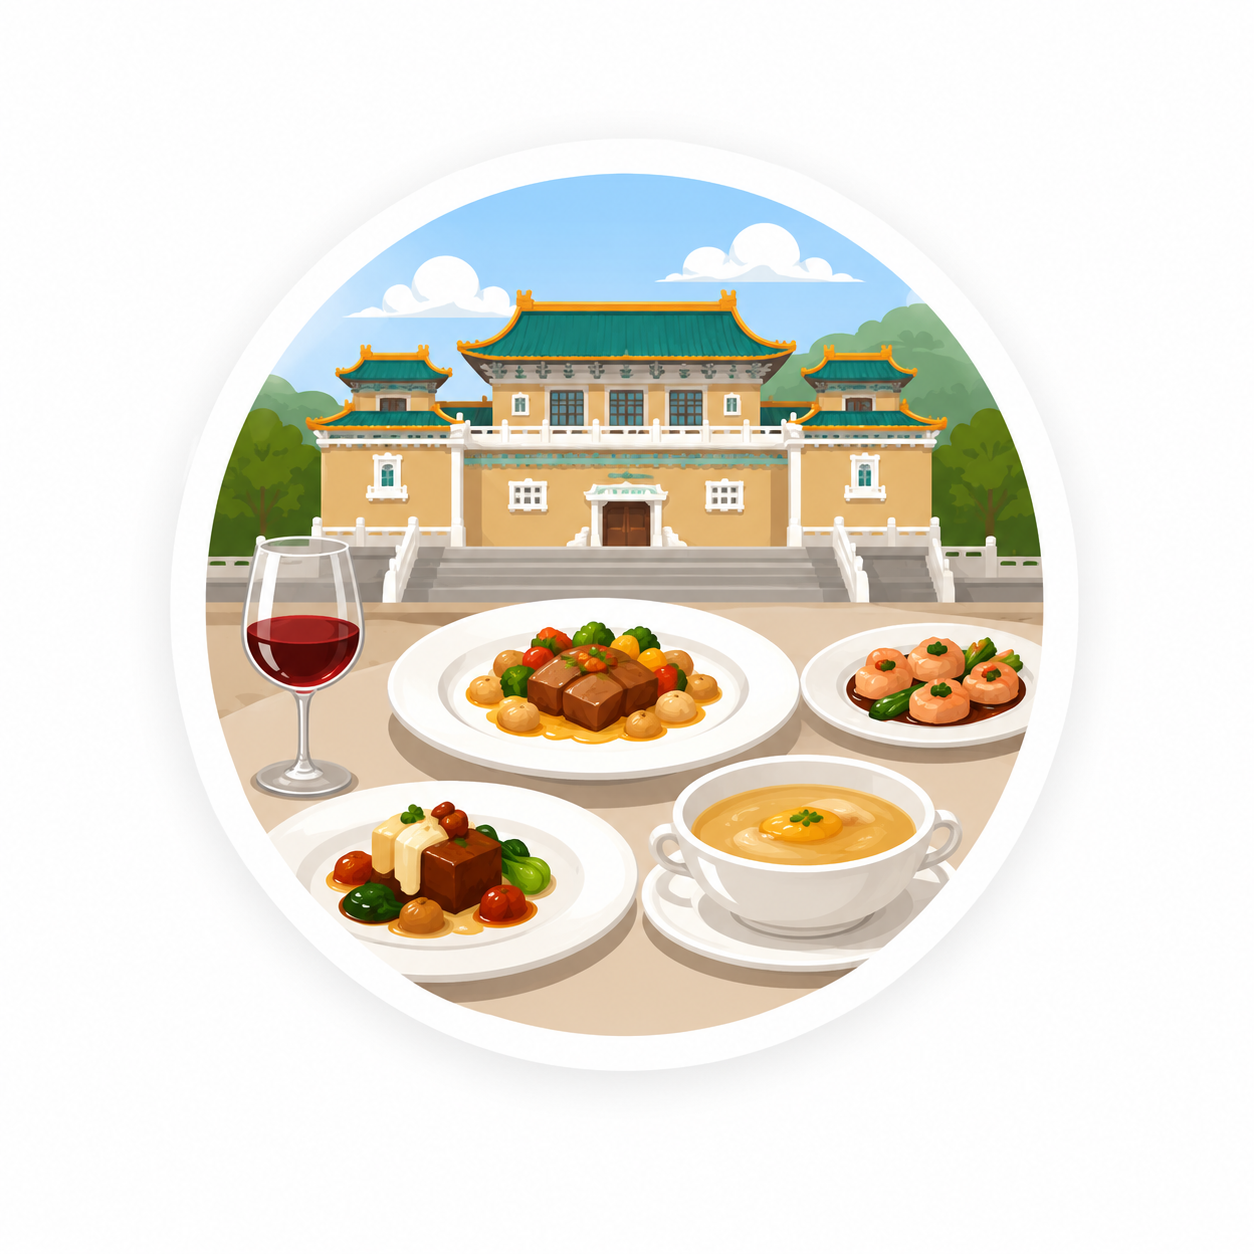
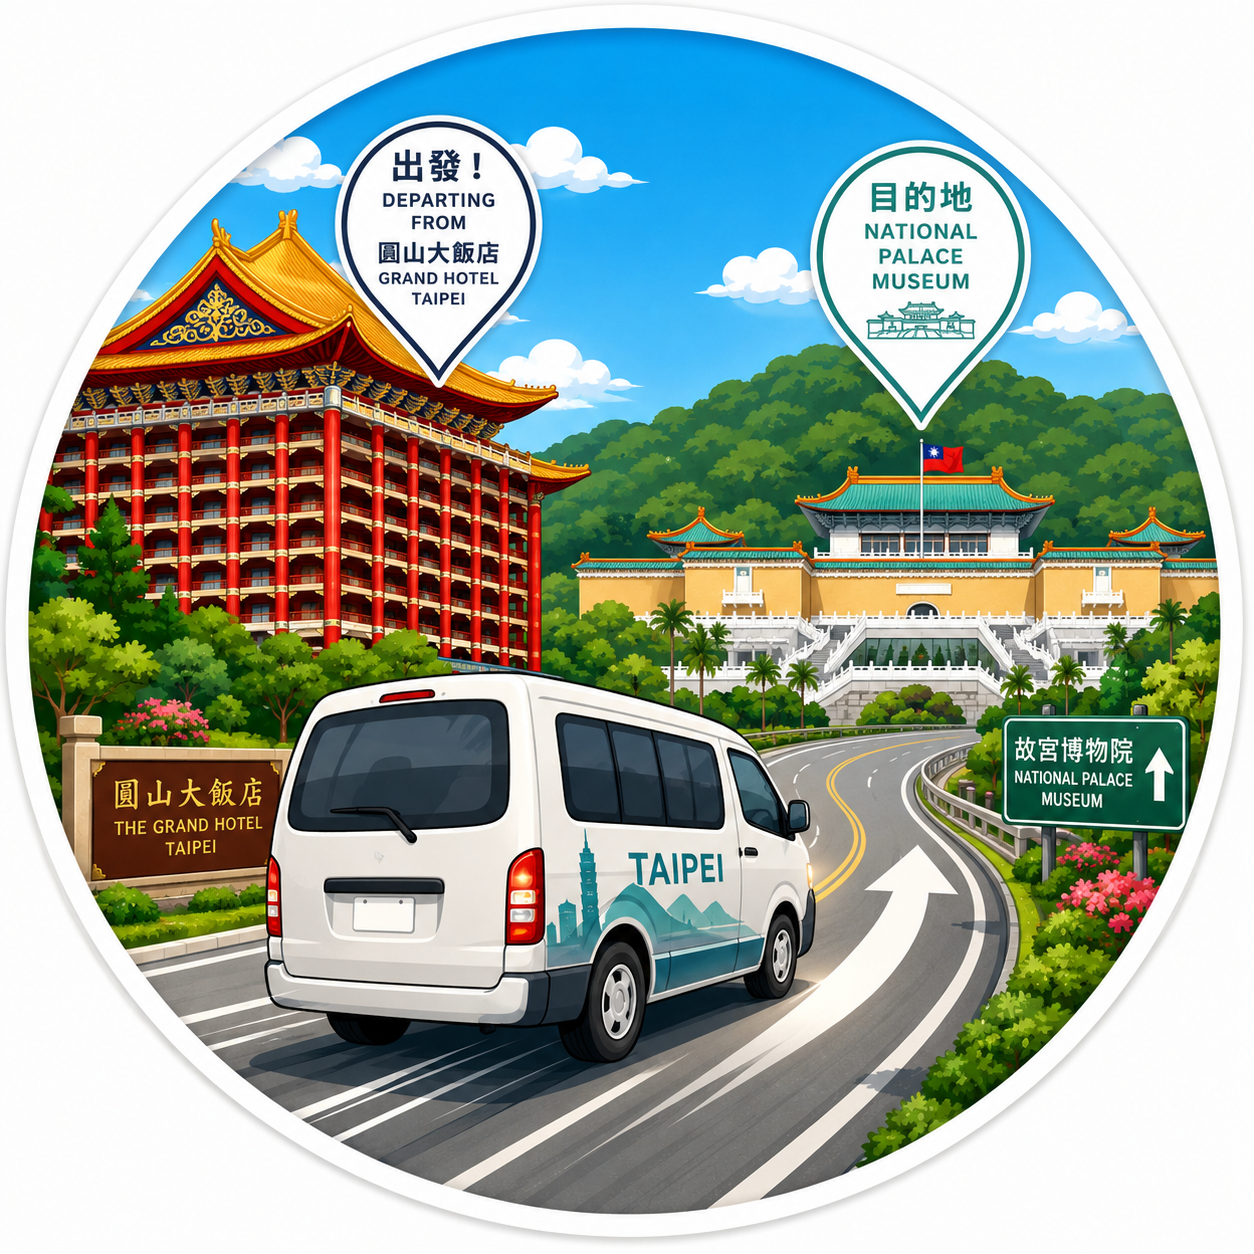
Deploying to gh-pages from @ bybarian/Eric2026@45bd08a0bebf68f6800f730e17983ab5d81a33ac 🚀

diff --git a/index.html b/index.html
@@ -4,8 +4,8 @@
     <meta charset="UTF-8" />
     <meta name="viewport" content="width=device-width, initial-scale=1.0" />
     <title>CBME Taiwan Week 2026 - Itinerary & Concierge</title>
-    <script type="module" crossorigin src="./assets/index-BPzL2MT6.js"></script>
-    <link rel="stylesheet" crossorigin href="./assets/index-DZV6m0gV.css">
+    <script type="module" crossorigin src="./assets/index-FYTg7MUF.js"></script>
+    <link rel="stylesheet" crossorigin href="./assets/index-q7Ysrpos.css">
   </head>
   <body>
     <div id="root"></div>

diff --git a/assets/index-q7Ysrpos.css b/assets/index-q7Ysrpos.css
@@ -1,0 +1,1 @@
+@import"https://fonts.googleapis.com/css2?family=Inter:wght@300;400;500;600;700&family=Outfit:wght@400;500;600;700;800&family=JetBrains+Mono:wght@400;500;600&display=swap";/*! tailwindcss v4.3.3 | MIT License | https://tailwindcss.com */@layer properties{@supports (((-webkit-hyphens:none)) and (not (margin-trim:inline))) or ((-moz-orient:inline) and (not (color:rgb(from red r g b)))){*,:before,:after,::backdrop{--tw-rotate-x:initial;--tw-rotate-y:initial;--tw-rotate-z:initial;--tw-skew-x:initial;--tw-skew-y:initial;--tw-space-y-reverse:0;--tw-space-x-reverse:0;--tw-border-style:solid;--tw-gradient-position:initial;--tw-gradient-from:#0000;--tw-gradient-via:#0000;--tw-gradient-to:#0000;--tw-gradient-stops:initial;--tw-gradient-via-stops:initial;--tw-gradient-from-position:0%;--tw-gradient-via-position:50%;--tw-gradient-to-position:100%;--tw-leading:initial;--tw-font-weight:initial;--tw-tracking:initial;--tw-shadow:0 0 #0000;--tw-shadow-color:initial;--tw-shadow-alpha:100%;--tw-inset-shadow:0 0 #0000;--tw-inset-shadow-color:initial;--tw-inset-shadow-alpha:100%;--tw-ring-color:initial;--tw-ring-shadow:0 0 #0000;--tw-inset-ring-color:initial;--tw-inset-ring-shadow:0 0 #0000;--tw-ring-inset:initial;--tw-ring-offset-width:0px;--tw-ring-offset-color:#fff;--tw-ring-offset-shadow:0 0 #0000;--tw-duration:initial}}}@layer theme{:root,:host{--font-sans:"Inter", ui-sans-serif, system-ui, sans-serif;--font-mono:"JetBrains Mono", ui-monospace, SFMono-Regular, monospace;--color-orange-700:oklch(55.3% .195 38.402);--color-amber-50:oklch(98.7% .022 95.277);--color-amber-100:oklch(96.2% .059 95.617);--color-amber-200:oklch(92.4% .12 95.746);--color-amber-400:oklch(82.8% .189 84.429);--color-amber-500:oklch(76.9% .188 70.08);--color-amber-600:oklch(66.6% .179 58.318);--color-amber-700:oklch(55.5% .163 48.998);--color-amber-800:oklch(47.3% .137 46.201);--color-amber-900:oklch(41.4% .112 45.904);--color-emerald-50:oklch(97.9% .021 166.113);--color-emerald-100:oklch(95% .052 163.051);--color-emerald-300:oklch(84.5% .143 164.978);--color-emerald-400:oklch(76.5% .177 163.223);--color-emerald-500:oklch(69.6% .17 162.48);--color-emerald-600:oklch(59.6% .145 163.225);--color-emerald-700:oklch(50.8% .118 165.612);--color-emerald-800:oklch(43.2% .095 166.913);--color-emerald-900:oklch(37.8% .077 168.94);--color-emerald-950:oklch(26.2% .051 172.552);--color-teal-700:oklch(51.1% .096 186.391);--color-sky-50:oklch(97.7% .013 236.62);--color-sky-600:oklch(58.8% .158 241.966);--color-sky-800:oklch(44.3% .11 240.79);--color-blue-700:oklch(48.8% .243 264.376);--color-slate-50:oklch(98.4% .003 247.858);--color-slate-100:oklch(96.8% .007 247.896);--color-slate-200:oklch(92.9% .013 255.508);--color-slate-300:oklch(86.9% .022 252.894);--color-slate-400:oklch(70.4% .04 256.788);--color-slate-500:oklch(55.4% .046 257.417);--color-slate-600:oklch(44.6% .043 257.281);--color-slate-700:oklch(37.2% .044 257.287);--color-slate-800:oklch(27.9% .041 260.031);--color-slate-900:oklch(20.8% .042 265.755);--color-black:#000;--color-white:#fff;--spacing:.25rem;--container-xl:36rem;--container-4xl:56rem;--container-7xl:80rem;--text-xs:.75rem;--text-xs--line-height:calc(1 / .75);--text-sm:.875rem;--text-sm--line-height:calc(1.25 / .875);--text-base:1rem;--text-base--line-height: 1.5 ;--text-lg:1.125rem;--text-lg--line-height:calc(1.75 / 1.125);--text-xl:1.25rem;--text-xl--line-height:calc(1.75 / 1.25);--text-2xl:1.5rem;--text-2xl--line-height:calc(2 / 1.5);--font-weight-medium:500;--font-weight-semibold:600;--font-weight-bold:700;--tracking-tight:-.025em;--tracking-wider:.05em;--tracking-widest:.1em;--leading-tight:1.25;--leading-normal:1.5;--leading-relaxed:1.625;--radius-md:.375rem;--radius-lg:.5rem;--radius-xl:.75rem;--radius-2xl:1rem;--radius-3xl:1.5rem;--animate-pulse:pulse 2s cubic-bezier(.4, 0, .6, 1) infinite;--default-transition-duration:.15s;--default-transition-timing-function:cubic-bezier(.4, 0, .2, 1);--default-font-family:var(--font-sans);--default-mono-font-family:var(--font-mono);--font-display:"Outfit", sans-serif}}@layer base{*,:after,:before,::backdrop{box-sizing:border-box;border:0 solid;margin:0;padding:0}::file-selector-button{box-sizing:border-box;border:0 solid;margin:0;padding:0}html,:host{-webkit-text-size-adjust:100%;-moz-tab-size:4;tab-size:4;line-height:1.5;font-family:var(--default-font-family,-apple-system, BlinkMacSystemFont, "Segoe UI", Roboto, "Helvetica Neue", "Noto Sans", Arial, sans-serif, "Apple Color Emoji", "Segoe UI Emoji", "Segoe UI Symbol", "Noto Color Emoji");font-feature-settings:var(--default-font-feature-settings,normal);font-variation-settings:var(--default-font-variation-settings,normal);-webkit-tap-highlight-color:transparent}hr{height:0;color:inherit;border-top-width:1px}abbr:where([title]){-webkit-text-decoration:underline dotted;text-decoration:underline dotted}h1,h2,h3,h4,h5,h6{font-size:inherit;font-weight:inherit}a{color:inherit;-webkit-text-decoration:inherit;text-decoration:inherit}b,strong{font-weight:bolder}code,kbd,samp,pre{font-family:var(--default-mono-font-family,ui-monospace, SFMono-Regular, Menlo, Monaco, Consolas, "Liberation Mono", "Courier New", monospace);font-feature-settings:var(--default-mono-font-feature-settings,normal);font-variation-settings:var(--default-mono-font-variation-settings,normal);font-size:1em}small{font-size:80%}sub,sup{vertical-align:baseline;font-size:75%;line-height:0;position:relative}sub{bottom:-.25em}sup{top:-.5em}table{text-indent:0;border-color:inherit;border-collapse:collapse}:-moz-focusring:where(:not(iframe)){outline:auto}progress{vertical-align:baseline}summary{display:list-item}ol,ul,menu{list-style:none}img,svg,video,canvas,audio,iframe,embed,object{vertical-align:middle;display:block}img,video{max-width:100%;height:auto}button,input,select,optgroup,textarea{font:inherit;font-feature-settings:inherit;font-variation-settings:inherit;letter-spacing:inherit;color:inherit;opacity:1;background-color:#0000;border-radius:0}::file-selector-button{font:inherit;font-feature-settings:inherit;font-variation-settings:inherit;letter-spacing:inherit;color:inherit;opacity:1;background-color:#0000;border-radius:0}:where(select:is([multiple],[size])) optgroup{font-weight:bolder}:where(select:is([multiple],[size])) optgroup option{padding-inline-start:20px}::file-selector-button{margin-inline-end:4px}::placeholder{opacity:1}@supports (not ((-webkit-appearance:-apple-pay-button))) or (contain-intrinsic-size:1px){::placeholder{color:currentColor}@supports (color:color-mix(in lab,red,red)){::placeholder{color:color-mix(in oklab,currentcolor 50%,transparent)}}}textarea{resize:vertical}::-webkit-search-decoration{-webkit-appearance:none}::-webkit-date-and-time-value{min-height:1lh;text-align:inherit}::-webkit-datetime-edit{display:inline-flex}::-webkit-datetime-edit-fields-wrapper{padding:0}::-webkit-datetime-edit{padding-block:0}::-webkit-datetime-edit-year-field{padding-block:0}::-webkit-datetime-edit-month-field{padding-block:0}::-webkit-datetime-edit-day-field{padding-block:0}::-webkit-datetime-edit-hour-field{padding-block:0}::-webkit-datetime-edit-minute-field{padding-block:0}::-webkit-datetime-edit-second-field{padding-block:0}::-webkit-datetime-edit-millisecond-field{padding-block:0}::-webkit-datetime-edit-meridiem-field{padding-block:0}::-webkit-calendar-picker-indicator{line-height:1}:-moz-ui-invalid{box-shadow:none}button,input:where([type=button],[type=reset],[type=submit]){-webkit-appearance:button;-moz-appearance:button;appearance:button}::file-selector-button{-webkit-appearance:button;-moz-appearance:button;appearance:button}::-webkit-inner-spin-button{height:auto}::-webkit-outer-spin-button{height:auto}[hidden]:where(:not([hidden=until-found])){display:none!important}body{background-color:#f8fafc80}@supports (color:color-mix(in lab,red,red)){body{background-color:color-mix(in oklab,var(--color-slate-50) 50%,transparent)}}body{font-family:var(--font-sans);color:var(--color-slate-800);-webkit-font-smoothing:antialiased;-moz-osx-font-smoothing:grayscale}}@layer components;@layer utilities{.absolute{position:absolute}.relative{position:relative}.sticky{position:sticky}.inset-0{top:0;right:0;bottom:0;left:0}.top-0{top:0}.top-4{top:calc(var(--spacing) * 4)}.bottom-4{bottom:calc(var(--spacing) * 4)}.left-\[61px\]{left:61px}.z-10{z-index:10}.z-50{z-index:50}.mx-auto{margin-inline:auto}.-my-2{margin-block:calc(var(--spacing) * -2)}.mt-0\.5{margin-top:calc(var(--spacing) * .5)}.mt-1{margin-top:var(--spacing)}.mt-2{margin-top:calc(var(--spacing) * 2)}.mt-2\.5{margin-top:calc(var(--spacing) * 2.5)}.mt-3{margin-top:calc(var(--spacing) * 3)}.mt-4{margin-top:calc(var(--spacing) * 4)}.mt-12{margin-top:calc(var(--spacing) * 12)}.mt-auto{margin-top:auto}.line-clamp-2{-webkit-line-clamp:2;-webkit-box-orient:vertical;display:-webkit-box;overflow:hidden}.block{display:block}.contents{display:contents}.flex{display:flex}.grid{display:grid}.hidden{display:none}.table{display:table}.h-1\.5{height:calc(var(--spacing) * 1.5)}.h-2{height:calc(var(--spacing) * 2)}.h-2\.5{height:calc(var(--spacing) * 2.5)}.h-3{height:calc(var(--spacing) * 3)}.h-3\.5{height:calc(var(--spacing) * 3.5)}.h-4{height:calc(var(--spacing) * 4)}.h-5{height:calc(var(--spacing) * 5)}.h-8{height:calc(var(--spacing) * 8)}.h-12{height:calc(var(--spacing) * 12)}.h-16{height:calc(var(--spacing) * 16)}.h-20{height:calc(var(--spacing) * 20)}.h-full{height:100%}.min-h-16{min-height:calc(var(--spacing) * 16)}.min-h-screen{min-height:100vh}.w-1\.5{width:calc(var(--spacing) * 1.5)}.w-2{width:calc(var(--spacing) * 2)}.w-2\.5{width:calc(var(--spacing) * 2.5)}.w-3{width:calc(var(--spacing) * 3)}.w-3\.5{width:calc(var(--spacing) * 3.5)}.w-4{width:calc(var(--spacing) * 4)}.w-5{width:calc(var(--spacing) * 5)}.w-8{width:calc(var(--spacing) * 8)}.w-11{width:calc(var(--spacing) * 11)}.w-12{width:calc(var(--spacing) * 12)}.w-16{width:calc(var(--spacing) * 16)}.w-20{width:calc(var(--spacing) * 20)}.w-full{width:100%}.w-px{width:1px}.max-w-4xl{max-width:var(--container-4xl)}.max-w-7xl{max-width:var(--container-7xl)}.max-w-\[170px\]{max-width:170px}.max-w-xl{max-width:var(--container-xl)}.min-w-0{min-width:0}.flex-1{flex:1}.shrink-0{flex-shrink:0}.transform{transform:var(--tw-rotate-x,) var(--tw-rotate-y,) var(--tw-rotate-z,) var(--tw-skew-x,) var(--tw-skew-y,)}.animate-pulse{animation:var(--animate-pulse)}.cursor-pointer{cursor:pointer}.grid-cols-1{grid-template-columns:repeat(1,minmax(0,1fr))}.grid-cols-2{grid-template-columns:repeat(2,minmax(0,1fr))}.grid-cols-3{grid-template-columns:repeat(3,minmax(0,1fr))}.flex-col{flex-direction:column}.items-baseline{align-items:baseline}.items-center{align-items:center}.items-start{align-items:flex-start}.justify-between{justify-content:space-between}.justify-center{justify-content:center}.gap-1{gap:var(--spacing)}.gap-1\.5{gap:calc(var(--spacing) * 1.5)}.gap-2{gap:calc(var(--spacing) * 2)}.gap-2\.5{gap:calc(var(--spacing) * 2.5)}.gap-3{gap:calc(var(--spacing) * 3)}.gap-4{gap:calc(var(--spacing) * 4)}:where(.space-y-1>:not(:last-child)){--tw-space-y-reverse:0;margin-block-start:calc(var(--spacing) * var(--tw-space-y-reverse));margin-block-end:calc(var(--spacing) * calc(1 - var(--tw-space-y-reverse)))}:where(.space-y-2>:not(:last-child)){--tw-space-y-reverse:0;margin-block-start:calc(calc(var(--spacing) * 2) * var(--tw-space-y-reverse));margin-block-end:calc(calc(var(--spacing) * 2) * calc(1 - var(--tw-space-y-reverse)))}:where(.space-y-3>:not(:last-child)){--tw-space-y-reverse:0;margin-block-start:calc(calc(var(--spacing) * 3) * var(--tw-space-y-reverse));margin-block-end:calc(calc(var(--spacing) * 3) * calc(1 - var(--tw-space-y-reverse)))}:where(.space-y-4>:not(:last-child)){--tw-space-y-reverse:0;margin-block-start:calc(calc(var(--spacing) * 4) * var(--tw-space-y-reverse));margin-block-end:calc(calc(var(--spacing) * 4) * calc(1 - var(--tw-space-y-reverse)))}:where(.space-y-6>:not(:last-child)){--tw-space-y-reverse:0;margin-block-start:calc(calc(var(--spacing) * 6) * var(--tw-space-y-reverse));margin-block-end:calc(calc(var(--spacing) * 6) * calc(1 - var(--tw-space-y-reverse)))}:where(.space-y-8>:not(:last-child)){--tw-space-y-reverse:0;margin-block-start:calc(calc(var(--spacing) * 8) * var(--tw-space-y-reverse));margin-block-end:calc(calc(var(--spacing) * 8) * calc(1 - var(--tw-space-y-reverse)))}:where(.space-x-1\.5>:not(:last-child)){--tw-space-x-reverse:0;margin-inline-start:calc(calc(var(--spacing) * 1.5) * var(--tw-space-x-reverse));margin-inline-end:calc(calc(var(--spacing) * 1.5) * calc(1 - var(--tw-space-x-reverse)))}:where(.space-x-2>:not(:last-child)){--tw-space-x-reverse:0;margin-inline-start:calc(calc(var(--spacing) * 2) * var(--tw-space-x-reverse));margin-inline-end:calc(calc(var(--spacing) * 2) * calc(1 - var(--tw-space-x-reverse)))}:where(.space-x-3>:not(:last-child)){--tw-space-x-reverse:0;margin-inline-start:calc(calc(var(--spacing) * 3) * var(--tw-space-x-reverse));margin-inline-end:calc(calc(var(--spacing) * 3) * calc(1 - var(--tw-space-x-reverse)))}.self-center{align-self:center}.self-start{align-self:flex-start}.truncate{text-overflow:ellipsis;white-space:nowrap;overflow:hidden}.overflow-hidden{overflow:hidden}.rounded{border-radius:.25rem}.rounded-2xl{border-radius:var(--radius-2xl)}.rounded-3xl{border-radius:var(--radius-3xl)}.rounded-full{border-radius:3.40282e38px}.rounded-lg{border-radius:var(--radius-lg)}.rounded-md{border-radius:var(--radius-md)}.rounded-xl{border-radius:var(--radius-xl)}.border{border-style:var(--tw-border-style);border-width:1px}.border-t{border-top-style:var(--tw-border-style);border-top-width:1px}.border-b{border-bottom-style:var(--tw-border-style);border-bottom-width:1px}.border-l-2{border-left-style:var(--tw-border-style);border-left-width:2px}.border-amber-100{border-color:var(--color-amber-100)}.border-amber-200{border-color:var(--color-amber-200)}.border-amber-400{border-color:var(--color-amber-400)}.border-emerald-100{border-color:var(--color-emerald-100)}.border-emerald-100\/50{border-color:#d0fae580}@supports (color:color-mix(in lab,red,red)){.border-emerald-100\/50{border-color:color-mix(in oklab,var(--color-emerald-100) 50%,transparent)}}.border-emerald-400{border-color:var(--color-emerald-400)}.border-emerald-500\/20{border-color:#00bb7f33}@supports (color:color-mix(in lab,red,red)){.border-emerald-500\/20{border-color:color-mix(in oklab,var(--color-emerald-500) 20%,transparent)}}.border-slate-200{border-color:var(--color-slate-200)}.border-slate-800{border-color:var(--color-slate-800)}.border-slate-800\/60{border-color:#1d293d99}@supports (color:color-mix(in lab,red,red)){.border-slate-800\/60{border-color:color-mix(in oklab,var(--color-slate-800) 60%,transparent)}}.border-transparent{border-color:#0000}.border-white{border-color:var(--color-white)}.bg-amber-50\/50{background-color:#fffbeb80}@supports (color:color-mix(in lab,red,red)){.bg-amber-50\/50{background-color:color-mix(in oklab,var(--color-amber-50) 50%,transparent)}}.bg-amber-50\/70{background-color:#fffbebb3}@supports (color:color-mix(in lab,red,red)){.bg-amber-50\/70{background-color:color-mix(in oklab,var(--color-amber-50) 70%,transparent)}}.bg-amber-400{background-color:var(--color-amber-400)}.bg-amber-500{background-color:var(--color-amber-500)}.bg-amber-600{background-color:var(--color-amber-600)}.bg-black\/40{background-color:#0006}@supports (color:color-mix(in lab,red,red)){.bg-black\/40{background-color:color-mix(in oklab,var(--color-black) 40%,transparent)}}.bg-emerald-50{background-color:var(--color-emerald-50)}.bg-emerald-50\/50{background-color:#ecfdf580}@supports (color:color-mix(in lab,red,red)){.bg-emerald-50\/50{background-color:color-mix(in oklab,var(--color-emerald-50) 50%,transparent)}}.bg-emerald-500{background-color:var(--color-emerald-500)}.bg-emerald-500\/10{background-color:#00bb7f1a}@supports (color:color-mix(in lab,red,red)){.bg-emerald-500\/10{background-color:color-mix(in oklab,var(--color-emerald-500) 10%,transparent)}}.bg-emerald-600{background-color:var(--color-emerald-600)}.bg-emerald-700{background-color:var(--color-emerald-700)}.bg-sky-50\/50{background-color:#f0f9ff80}@supports (color:color-mix(in lab,red,red)){.bg-sky-50\/50{background-color:color-mix(in oklab,var(--color-sky-50) 50%,transparent)}}.bg-slate-50{background-color:var(--color-slate-50)}.bg-slate-100{background-color:var(--color-slate-100)}.bg-slate-200{background-color:var(--color-slate-200)}.bg-slate-800{background-color:var(--color-slate-800)}.bg-slate-800\/40{background-color:#1d293d66}@supports (color:color-mix(in lab,red,red)){.bg-slate-800\/40{background-color:color-mix(in oklab,var(--color-slate-800) 40%,transparent)}}.bg-slate-900{background-color:var(--color-slate-900)}.bg-white{background-color:var(--color-white)}.bg-white\/80{background-color:#fffc}@supports (color:color-mix(in lab,red,red)){.bg-white\/80{background-color:color-mix(in oklab,var(--color-white) 80%,transparent)}}.bg-gradient-to-br{--tw-gradient-position:to bottom right in oklab;background-image:linear-gradient(var(--tw-gradient-stops))}.from-amber-600{--tw-gradient-from:var(--color-amber-600);--tw-gradient-stops:var(--tw-gradient-via-stops,var(--tw-gradient-position), var(--tw-gradient-from) var(--tw-gradient-from-position), var(--tw-gradient-to) var(--tw-gradient-to-position))}.from-emerald-600{--tw-gradient-from:var(--color-emerald-600);--tw-gradient-stops:var(--tw-gradient-via-stops,var(--tw-gradient-position), var(--tw-gradient-from) var(--tw-gradient-from-position), var(--tw-gradient-to) var(--tw-gradient-to-position))}.from-sky-600{--tw-gradient-from:var(--color-sky-600);--tw-gradient-stops:var(--tw-gradient-via-stops,var(--tw-gradient-position), var(--tw-gradient-from) var(--tw-gradient-from-position), var(--tw-gradient-to) var(--tw-gradient-to-position))}.to-blue-700{--tw-gradient-to:var(--color-blue-700);--tw-gradient-stops:var(--tw-gradient-via-stops,var(--tw-gradient-position), var(--tw-gradient-from) var(--tw-gradient-from-position), var(--tw-gradient-to) var(--tw-gradient-to-position))}.to-orange-700{--tw-gradient-to:var(--color-orange-700);--tw-gradient-stops:var(--tw-gradient-via-stops,var(--tw-gradient-position), var(--tw-gradient-from) var(--tw-gradient-from-position), var(--tw-gradient-to) var(--tw-gradient-to-position))}.to-teal-700{--tw-gradient-to:var(--color-teal-700);--tw-gradient-stops:var(--tw-gradient-via-stops,var(--tw-gradient-position), var(--tw-gradient-from) var(--tw-gradient-from-position), var(--tw-gradient-to) var(--tw-gradient-to-position))}.stroke-\[1\]{stroke-width:1px}.stroke-\[2\]{stroke-width:2px}.object-cover{object-fit:cover}.p-1{padding:var(--spacing)}.p-2{padding:calc(var(--spacing) * 2)}.p-2\.5{padding:calc(var(--spacing) * 2.5)}.p-3{padding:calc(var(--spacing) * 3)}.p-4{padding:calc(var(--spacing) * 4)}.p-\[1px\]{padding:1px}.px-1\.5{padding-inline:calc(var(--spacing) * 1.5)}.px-2{padding-inline:calc(var(--spacing) * 2)}.px-2\.5{padding-inline:calc(var(--spacing) * 2.5)}.px-3{padding-inline:calc(var(--spacing) * 3)}.px-4{padding-inline:calc(var(--spacing) * 4)}.py-0\.5{padding-block:calc(var(--spacing) * .5)}.py-1{padding-block:var(--spacing)}.py-1\.5{padding-block:calc(var(--spacing) * 1.5)}.py-2{padding-block:calc(var(--spacing) * 2)}.py-3{padding-block:calc(var(--spacing) * 3)}.py-6{padding-block:calc(var(--spacing) * 6)}.py-8{padding-block:calc(var(--spacing) * 8)}.pt-1\.5{padding-top:calc(var(--spacing) * 1.5)}.pt-3{padding-top:calc(var(--spacing) * 3)}.pt-6{padding-top:calc(var(--spacing) * 6)}.pb-4{padding-bottom:calc(var(--spacing) * 4)}.pl-0{padding-left:0}.pl-2{padding-left:calc(var(--spacing) * 2)}.text-center{text-align:center}.text-right{text-align:right}.font-display{font-family:var(--font-display)}.font-mono{font-family:var(--font-mono)}.font-sans{font-family:var(--font-sans)}.text-2xl{font-size:var(--text-2xl);line-height:var(--tw-leading,var(--text-2xl--line-height))}.text-lg{font-size:var(--text-lg);line-height:var(--tw-leading,var(--text-lg--line-height))}.text-sm{font-size:var(--text-sm);line-height:var(--tw-leading,var(--text-sm--line-height))}.text-xl{font-size:var(--text-xl);line-height:var(--tw-leading,var(--text-xl--line-height))}.text-xs{font-size:var(--text-xs);line-height:var(--tw-leading,var(--text-xs--line-height))}.text-\[8px\]{font-size:8px}.text-\[9px\]{font-size:9px}.text-\[10px\]{font-size:10px}.text-\[11px\]{font-size:11px}.leading-none{--tw-leading:1;line-height:1}.leading-normal{--tw-leading:var(--leading-normal);line-height:var(--leading-normal)}.leading-relaxed{--tw-leading:var(--leading-relaxed);line-height:var(--leading-relaxed)}.leading-tight{--tw-leading:var(--leading-tight);line-height:var(--leading-tight)}.font-bold{--tw-font-weight:var(--font-weight-bold);font-weight:var(--font-weight-bold)}.font-medium{--tw-font-weight:var(--font-weight-medium);font-weight:var(--font-weight-medium)}.font-semibold{--tw-font-weight:var(--font-weight-semibold);font-weight:var(--font-weight-semibold)}.tracking-tight{--tw-tracking:var(--tracking-tight);letter-spacing:var(--tracking-tight)}.tracking-wider{--tw-tracking:var(--tracking-wider);letter-spacing:var(--tracking-wider)}.tracking-widest{--tw-tracking:var(--tracking-widest);letter-spacing:var(--tracking-widest)}.text-amber-500{color:var(--color-amber-500)}.text-amber-600{color:var(--color-amber-600)}.text-amber-700{color:var(--color-amber-700)}.text-amber-800{color:var(--color-amber-800)}.text-amber-900{color:var(--color-amber-900)}.text-emerald-400{color:var(--color-emerald-400)}.text-emerald-600{color:var(--color-emerald-600)}.text-emerald-700{color:var(--color-emerald-700)}.text-emerald-700\/90{color:#007956e6}@supports (color:color-mix(in lab,red,red)){.text-emerald-700\/90{color:color-mix(in oklab,var(--color-emerald-700) 90%,transparent)}}.text-emerald-800{color:var(--color-emerald-800)}.text-emerald-900{color:var(--color-emerald-900)}.text-emerald-950{color:var(--color-emerald-950)}.text-sky-800{color:var(--color-sky-800)}.text-slate-100{color:var(--color-slate-100)}.text-slate-300{color:var(--color-slate-300)}.text-slate-400{color:var(--color-slate-400)}.text-slate-500{color:var(--color-slate-500)}.text-slate-600{color:var(--color-slate-600)}.text-slate-700{color:var(--color-slate-700)}.text-slate-800{color:var(--color-slate-800)}.text-slate-900{color:var(--color-slate-900)}.text-white{color:var(--color-white)}.text-white\/20{color:#fff3}@supports (color:color-mix(in lab,red,red)){.text-white\/20{color:color-mix(in oklab,var(--color-white) 20%,transparent)}}.uppercase{text-transform:uppercase}.italic{font-style:italic}.opacity-0{opacity:0}.opacity-10{opacity:.1}.opacity-60{opacity:.6}.opacity-80{opacity:.8}.opacity-95{opacity:.95}.mix-blend-overlay{mix-blend-mode:overlay}.shadow{--tw-shadow:0 1px 3px 0 var(--tw-shadow-color,#0000001a), 0 1px 2px -1px var(--tw-shadow-color,#0000001a);box-shadow:var(--tw-inset-shadow),var(--tw-inset-ring-shadow),var(--tw-ring-offset-shadow),var(--tw-ring-shadow),var(--tw-shadow)}.shadow-lg{--tw-shadow:0 10px 15px -3px var(--tw-shadow-color,#0000001a), 0 4px 6px -4px var(--tw-shadow-color,#0000001a);box-shadow:var(--tw-inset-shadow),var(--tw-inset-ring-shadow),var(--tw-ring-offset-shadow),var(--tw-ring-shadow),var(--tw-shadow)}.shadow-md{--tw-shadow:0 4px 6px -1px var(--tw-shadow-color,#0000001a), 0 2px 4px -2px var(--tw-shadow-color,#0000001a);box-shadow:var(--tw-inset-shadow),var(--tw-inset-ring-shadow),var(--tw-ring-offset-shadow),var(--tw-ring-shadow),var(--tw-shadow)}.shadow-sm{--tw-shadow:0 1px 3px 0 var(--tw-shadow-color,#0000001a), 0 1px 2px -1px var(--tw-shadow-color,#0000001a);box-shadow:var(--tw-inset-shadow),var(--tw-inset-ring-shadow),var(--tw-ring-offset-shadow),var(--tw-ring-shadow),var(--tw-shadow)}.shadow-xs{--tw-shadow:0 1px 2px 0 var(--tw-shadow-color,#0000000d);box-shadow:var(--tw-inset-shadow),var(--tw-inset-ring-shadow),var(--tw-ring-offset-shadow),var(--tw-ring-shadow),var(--tw-shadow)}.ring-4{--tw-ring-shadow:var(--tw-ring-inset,) 0 0 0 calc(4px + var(--tw-ring-offset-width)) var(--tw-ring-color,currentcolor);box-shadow:var(--tw-inset-shadow),var(--tw-inset-ring-shadow),var(--tw-ring-offset-shadow),var(--tw-ring-shadow),var(--tw-shadow)}.shadow-slate-200\/60{--tw-shadow-color:#e2e8f099}@supports (color:color-mix(in lab,red,red)){.shadow-slate-200\/60{--tw-shadow-color:color-mix(in oklab, color-mix(in oklab, var(--color-slate-200) 60%, transparent) var(--tw-shadow-alpha), transparent)}}.shadow-slate-200\/80{--tw-shadow-color:#e2e8f0cc}@supports (color:color-mix(in lab,red,red)){.shadow-slate-200\/80{--tw-shadow-color:color-mix(in oklab, color-mix(in oklab, var(--color-slate-200) 80%, transparent) var(--tw-shadow-alpha), transparent)}}.ring-amber-100{--tw-ring-color:var(--color-amber-100)}.ring-emerald-100{--tw-ring-color:var(--color-emerald-100)}.ring-white{--tw-ring-color:var(--color-white)}.transition{transition-property:color,background-color,border-color,outline-color,text-decoration-color,fill,stroke,--tw-gradient-from,--tw-gradient-via,--tw-gradient-to,opacity,box-shadow,transform,translate,scale,rotate,filter,-webkit-backdrop-filter,backdrop-filter,display,content-visibility,overlay,pointer-events;transition-timing-function:var(--tw-ease,var(--default-transition-timing-function));transition-duration:var(--tw-duration,var(--default-transition-duration))}.transition-all{transition-property:all;transition-timing-function:var(--tw-ease,var(--default-transition-timing-function));transition-duration:var(--tw-duration,var(--default-transition-duration))}.duration-200{--tw-duration:.2s;transition-duration:.2s}.duration-300{--tw-duration:.3s;transition-duration:.3s}.select-all{-webkit-user-select:all;user-select:all}.select-none{-webkit-user-select:none;user-select:none}@media(hover:hover){.hover\:border-emerald-300:hover{border-color:var(--color-emerald-300)}.hover\:border-emerald-600\/30:hover{border-color:#0097674d}@supports (color:color-mix(in lab,red,red)){.hover\:border-emerald-600\/30:hover{border-color:color-mix(in oklab,var(--color-emerald-600) 30%,transparent)}}.hover\:bg-amber-50\/30:hover{background-color:#fffbeb4d}@supports (color:color-mix(in lab,red,red)){.hover\:bg-amber-50\/30:hover{background-color:color-mix(in oklab,var(--color-amber-50) 30%,transparent)}}.hover\:bg-amber-100:hover{background-color:var(--color-amber-100)}.hover\:bg-amber-700:hover{background-color:var(--color-amber-700)}.hover\:bg-emerald-50:hover{background-color:var(--color-emerald-50)}.hover\:bg-emerald-100:hover{background-color:var(--color-emerald-100)}.hover\:bg-emerald-700:hover{background-color:var(--color-emerald-700)}.hover\:bg-slate-50\/50:hover{background-color:#f8fafc80}@supports (color:color-mix(in lab,red,red)){.hover\:bg-slate-50\/50:hover{background-color:color-mix(in oklab,var(--color-slate-50) 50%,transparent)}}.hover\:bg-slate-100:hover{background-color:var(--color-slate-100)}.hover\:bg-slate-700:hover{background-color:var(--color-slate-700)}.hover\:opacity-100:hover{opacity:1}.hover\:shadow-xs:hover{--tw-shadow:0 1px 2px 0 var(--tw-shadow-color,#0000000d);box-shadow:var(--tw-inset-shadow),var(--tw-inset-ring-shadow),var(--tw-ring-offset-shadow),var(--tw-ring-shadow),var(--tw-shadow)}}@media(min-width:40rem){.sm\:left-\[85px\]{left:85px}.sm\:flex{display:flex}.sm\:inline{display:inline}.sm\:h-2{height:calc(var(--spacing) * 2)}.sm\:h-10{height:calc(var(--spacing) * 10)}.sm\:h-16{height:calc(var(--spacing) * 16)}.sm\:h-20{height:calc(var(--spacing) * 20)}.sm\:h-28{height:calc(var(--spacing) * 28)}.sm\:w-2{width:calc(var(--spacing) * 2)}.sm\:w-10{width:calc(var(--spacing) * 10)}.sm\:w-14{width:calc(var(--spacing) * 14)}.sm\:w-16{width:calc(var(--spacing) * 16)}.sm\:w-20{width:calc(var(--spacing) * 20)}.sm\:w-28{width:calc(var(--spacing) * 28)}.sm\:grid-cols-3{grid-template-columns:repeat(3,minmax(0,1fr))}.sm\:flex-row{flex-direction:row}.sm\:items-center{align-items:center}.sm\:gap-2{gap:calc(var(--spacing) * 2)}.sm\:gap-4{gap:calc(var(--spacing) * 4)}.sm\:gap-6{gap:calc(var(--spacing) * 6)}:where(.sm\:space-y-8>:not(:last-child)){--tw-space-y-reverse:0;margin-block-start:calc(calc(var(--spacing) * 8) * var(--tw-space-y-reverse));margin-block-end:calc(calc(var(--spacing) * 8) * calc(1 - var(--tw-space-y-reverse)))}.sm\:self-auto{align-self:auto}.sm\:p-4{padding:calc(var(--spacing) * 4)}.sm\:p-5{padding:calc(var(--spacing) * 5)}.sm\:p-6{padding:calc(var(--spacing) * 6)}.sm\:p-8{padding:calc(var(--spacing) * 8)}.sm\:px-4{padding-inline:calc(var(--spacing) * 4)}.sm\:px-10{padding-inline:calc(var(--spacing) * 10)}.sm\:py-0{padding-block:0}.sm\:py-2{padding-block:calc(var(--spacing) * 2)}.sm\:text-base{font-size:var(--text-base);line-height:var(--tw-leading,var(--text-base--line-height))}.sm\:text-sm{font-size:var(--text-sm);line-height:var(--tw-leading,var(--text-sm--line-height))}.sm\:text-xl{font-size:var(--text-xl);line-height:var(--tw-leading,var(--text-xl--line-height))}.sm\:text-xs{font-size:var(--text-xs);line-height:var(--tw-leading,var(--text-xs--line-height))}.sm\:text-\[10px\]{font-size:10px}.sm\:text-\[11px\]{font-size:11px}}@media(min-width:48rem){.md\:text-lg{font-size:var(--text-lg);line-height:var(--tw-leading,var(--text-lg--line-height))}}}::-webkit-scrollbar{width:6px;height:6px}::-webkit-scrollbar-track{background:0 0}::-webkit-scrollbar-thumb{background:#cbd5e1;border-radius:4px}::-webkit-scrollbar-thumb:hover{background:#94a3b8}@keyframes pulse-ring{0%{opacity:.5;transform:scale(.8)}to{opacity:0;transform:scale(1.8)}}.pulse-ring{animation:2s cubic-bezier(.215,.61,.355,1) infinite pulse-ring}@property --tw-rotate-x{syntax:"*";inherits:false}@property --tw-rotate-y{syntax:"*";inherits:false}@property --tw-rotate-z{syntax:"*";inherits:false}@property --tw-skew-x{syntax:"*";inherits:false}@property --tw-skew-y{syntax:"*";inherits:false}@property --tw-space-y-reverse{syntax:"*";inherits:false;initial-value:0}@property --tw-space-x-reverse{syntax:"*";inherits:false;initial-value:0}@property --tw-border-style{syntax:"*";inherits:false;initial-value:solid}@property --tw-gradient-position{syntax:"*";inherits:false}@property --tw-gradient-from{syntax:"<color>";inherits:false;initial-value:#0000}@property --tw-gradient-via{syntax:"<color>";inherits:false;initial-value:#0000}@property --tw-gradient-to{syntax:"<color>";inherits:false;initial-value:#0000}@property --tw-gradient-stops{syntax:"*";inherits:false}@property --tw-gradient-via-stops{syntax:"*";inherits:false}@property --tw-gradient-from-position{syntax:"<length-percentage>";inherits:false;initial-value:0%}@property --tw-gradient-via-position{syntax:"<length-percentage>";inherits:false;initial-value:50%}@property --tw-gradient-to-position{syntax:"<length-percentage>";inherits:false;initial-value:100%}@property --tw-leading{syntax:"*";inherits:false}@property --tw-font-weight{syntax:"*";inherits:false}@property --tw-tracking{syntax:"*";inherits:false}@property --tw-shadow{syntax:"*";inherits:false;initial-value:0 0 #0000}@property --tw-shadow-color{syntax:"*";inherits:false}@property --tw-shadow-alpha{syntax:"<percentage>";inherits:false;initial-value:100%}@property --tw-inset-shadow{syntax:"*";inherits:false;initial-value:0 0 #0000}@property --tw-inset-shadow-color{syntax:"*";inherits:false}@property --tw-inset-shadow-alpha{syntax:"<percentage>";inherits:false;initial-value:100%}@property --tw-ring-color{syntax:"*";inherits:false}@property --tw-ring-shadow{syntax:"*";inherits:false;initial-value:0 0 #0000}@property --tw-inset-ring-color{syntax:"*";inherits:false}@property --tw-inset-ring-shadow{syntax:"*";inherits:false;initial-value:0 0 #0000}@property --tw-ring-inset{syntax:"*";inherits:false}@property --tw-ring-offset-width{syntax:"<length>";inherits:false;initial-value:0}@property --tw-ring-offset-color{syntax:"*";inherits:false;initial-value:#fff}@property --tw-ring-offset-shadow{syntax:"*";inherits:false;initial-value:0 0 #0000}@property --tw-duration{syntax:"*";inherits:false}@keyframes pulse{50%{opacity:.5}}